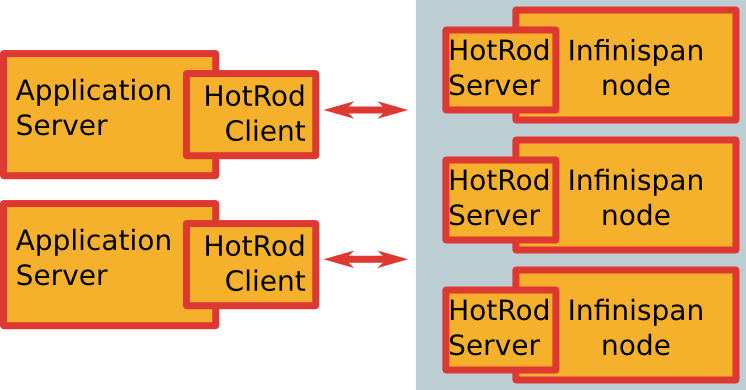
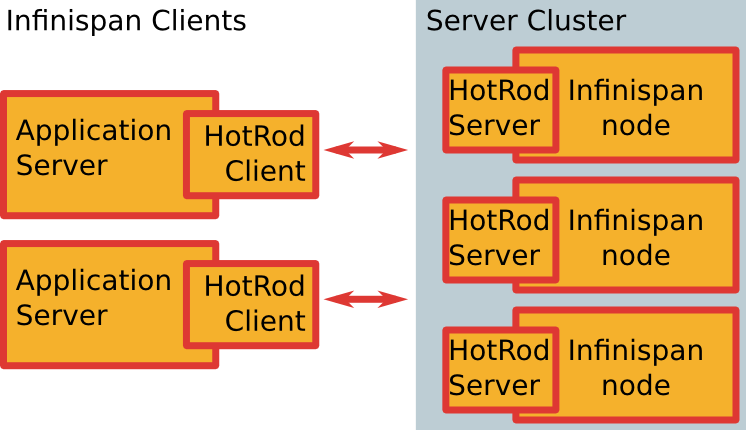
minor text and graphics changes

diff --git a/index.html b/index.html
@@ -260,7 +260,7 @@
             <li>Inexpensive to implement atomic operations
             <li>Different strategies with joining andeaving nodes.
         </ul>
-        <img style="background: rgba(255, 255, 255, 0); border: 0; box-shadow: 0 0 0 0" src="distribution-mode.png"/>
+        <img style="padding-top: 1em; background: rgba(255, 255, 255, 0); border: 0; box-shadow: 0 0 0 0" src="distribution-mode.png"/>
     </section>
     <section>
         <h3>Client-Server Mode</h3>
@@ -292,7 +292,7 @@
     <section>
         <h3>JSR 107 Core Interfaces</h3>
         <ul>
-            <li><span class="code">CachingProvider:</span> Configure CacheManagers (CDI Provider?)
+            <li><span class="code">CachingProvider:</span> Configure CacheManagers
             <li><span class="code">CacheManager:</span> Acquire Cache
             <li><span class="code">Cache:</span> Map-like data structure + eviction + backed by distributied topology
             <li><span class="code">Entry:</span> Key-value pair
@@ -354,8 +354,10 @@ public void incrementAtomic(String user) {
     </section>
     <section>
         <h3>Concurrent Map</h3>
-        CAS operations can be understood as a optimistic locking approach.
-        Alternatively, you caches provide pessimistic lock / mutate / unlock.
+        CAS operations can be understood<br/>
+        as an optimistic locking approach.<p/>
+        Alternatively, you caches provide<br/>
+        pessimistic lock / mutate / unlock.
     </section>
 </section>
 <section data-background="consol-background.jpg" data-background-size="100% 100%" data-background-color="#FFFFFF">
@@ -377,9 +379,11 @@ public void incrementAtomic(String user) {
         </ul>
     </section>
     <section>
+        <h3>Simple Distributed Hash</h3>
         <img style="background: rgba(255, 255, 255, 0); border: 0; box-shadow: 0 0 0 0" src="distributed-hash-simple.png"/>
     </section>
     <section>
+        <h3>Distributed Hash with Back-up on "Neighbor to the Right"</h3>
         <img style="background: rgba(255, 255, 255, 0); border: 0; box-shadow: 0 0 0 0" src="distributed-hash-with-backup-on-neighbor.png"/>
     </section>
     <section>
@@ -391,10 +395,11 @@ public void incrementAtomic(String user) {
         </ul>
     </section>
     <section>
+        <h3>Distributed Hash with Secondary Back-up Hash</h3>
         <img style="background: rgba(255, 255, 255, 0); border: 0; box-shadow: 0 0 0 0" src="distributed-hash-with-backup-hash.png"/>
     </section>
     <section>
-        <h3>Distributed Hash with Back-up on "Neighbor to the Right"</h3>
+        <h3>Distributed Hash with Secondary Back-up Hash</h3>
         Problem:
         <ul>
             <li><del>Immediatly after Node failure: Back-up node may become overloaded, because gets all keys from failing neighbor.</del>
@@ -402,6 +407,7 @@ public void incrementAtomic(String user) {
         </ul>
     </section>
     <section>
+        <h3>Consistent Hashing</h3>
         <img style="background: rgba(255, 255, 255, 0); border: 0; box-shadow: 0 0 0 0" src="consistent-hash.png"/>
     </section>
     <section>
@@ -426,6 +432,7 @@ public void incrementAtomic(String user) {
         <img style="background: rgba(255, 255, 255, 0); border: 0; box-shadow: 0 0 0 0" src="distribution-mode-visualization-demo.png"/>
     </section>
     <section>
+        <h3>Demo</h3>
         <ul>
         <li>Num Keys: 600, Num Segments: 6.
         <li>Keys per segment: ca 100
